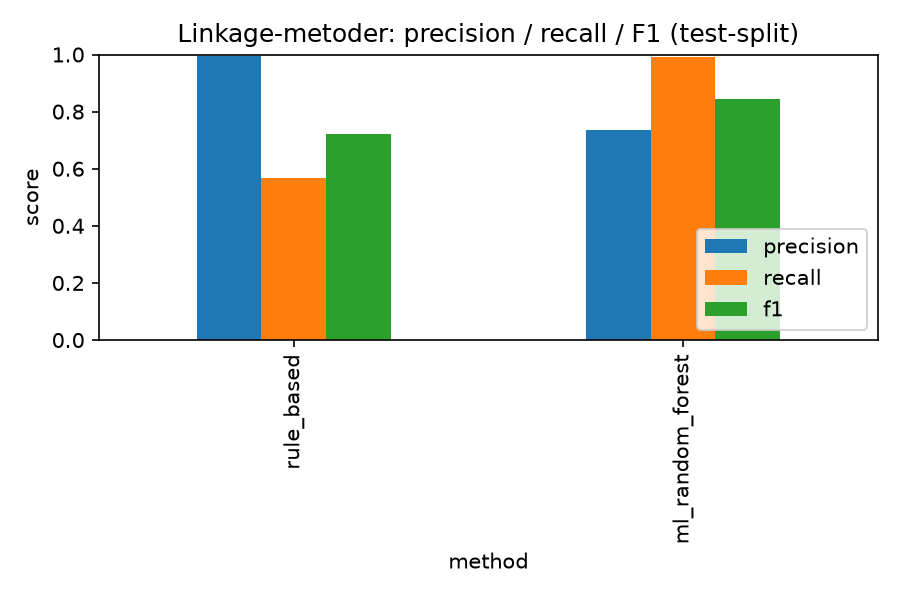
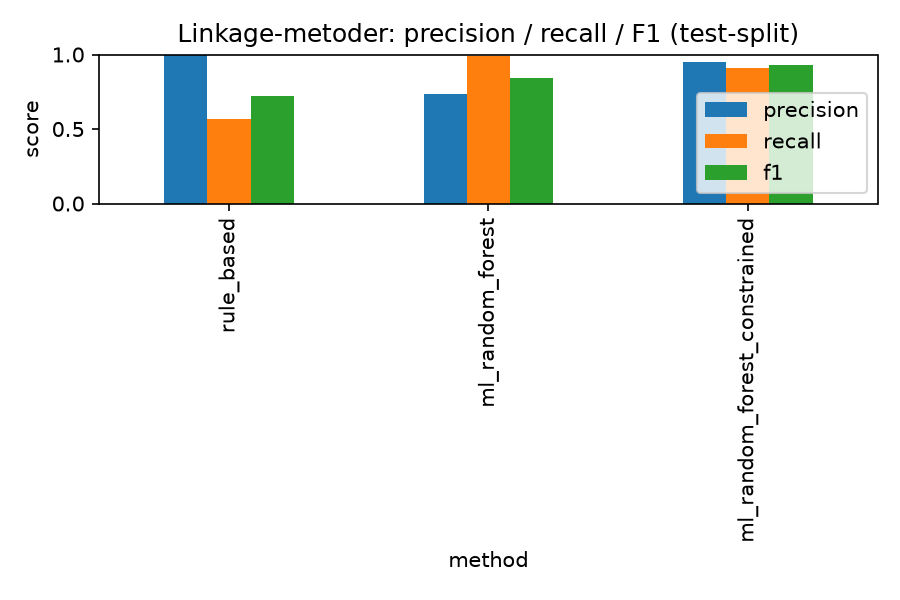
Shorten README intro, show all three methods in results figure
- Trimmed the intro to ~4 lines as requested.
- cmd_evaluate now also scores the ML model's predictions after
  one-to-one constrained assignment, restricted to the test split so
  all three methods share the same denominator (previously only
  rule-based and plain ML were compared; the constrained numbers
  existed only as a separate "all splits" figure in
  results/reports/constrained_assignment.md, which is not
  apples-to-apples with the test-split table). Regenerated
  metrics_comparison.csv and method_comparison.png accordingly - real
  precision 0.950 / recall 0.910 / F1 0.930 for ML+constrained, from
  existing constrained_assignment.py logic, not fabricated.
- Updated the README table and figure caption to reflect the three-way
  comparison, and docs/results.md to explain how this test-split number
  relates to the separate "all splits" figure in
  results/reports/constrained_assignment.md.
- Snakefile: `evaluate` now formally depends on constrained_ml.csv.

Claude-Session: https://claude.ai/code/session_01W6qVEZwCeja2cQtByg29Xo

diff --git a/src/linkage_lab/cli.py b/src/linkage_lab/cli.py
@@ -145,6 +145,30 @@ def cmd_evaluate(_args) -> None:
         "rule_based": evaluation.compute_metrics(rule_test["is_true_match"], rule_test["predicted_match"]),
         "ml_random_forest": evaluation.compute_metrics(ml_test["is_true_match"], ml_test["predicted_match"]),
     }
+
+    # Third comparison point: the ML method's predictions after one-to-one
+    # constrained assignment (see cmd_constrained_assignment), restricted
+    # to the same test split and evaluated against the same denominator
+    # (all test pairs) as the two methods above - not the "all splits"
+    # figure reported in constrained_assignment.md, so the three bars in
+    # the resulting figure are directly comparable.
+    if PATHS["constrained_ml"].exists():
+        constrained = pd.read_csv(PATHS["constrained_ml"])
+        kept_test_keys = set(
+            zip(
+                constrained.loc[constrained["split"] == "test", "census_record_id"],
+                constrained.loc[constrained["split"] == "test", "parish_record_id"],
+            )
+        )
+        ml_test = ml_test.copy()
+        ml_test["predicted_match_constrained"] = [
+            1 if key in kept_test_keys else 0
+            for key in zip(ml_test["census_record_id"], ml_test["parish_record_id"])
+        ]
+        metrics["ml_random_forest_constrained"] = evaluation.compute_metrics(
+            ml_test["is_true_match"], ml_test["predicted_match_constrained"]
+        )
+
     comparison = evaluation.build_comparison_table(metrics)
     comparison.to_csv(PATHS["metrics_comparison"])
     print(comparison)

diff --git a/README.md b/README.md
@@ -1,14 +1,12 @@
 # Historical Record Linkage Lab
 
-Et selvstændigt portfolio-projekt i historisk record linkage: at afgøre,
-hvornår to poster fra støjfyldte, transskriberede kilder beskriver samme
-person - uden et CPR-nummer at slå op på, og med almindelige navne, der
-kolliderer på tværs af forskellige, urelaterede individer. Projektet
-bygger hele pipelinen fra rå data til kvalitetssikrede koblinger, på
-både et kontrolleret syntetisk datasæt og et ægte historisk OCR-datasæt.
+Et portfolio-projekt i historisk record linkage: at afgøre, hvornår
+støjfyldte, transskriberede poster - uden CPR-nummer og med navne der
+kolliderer - beskriver samme person. Demonstreret på et syntetisk
+benchmark og et ægte historisk OCR-datasæt.
 
-**Dette er et selvstændigt lærings-/portfolio-projekt.** Det er **ikke**
-udviklet af eller for Rigsarkivet, og bruger **ingen** HisPeR-data.
+**Selvstændigt lærings-/portfolio-projekt** - ikke udviklet af eller for
+Rigsarkivet, og bruger ingen HisPeR-data.
 
 ## Pipeline
 
@@ -54,23 +52,21 @@ evalueringen bygger på et lille, manuelt vurderet benchmark (92 par). Se
 
 Syntetisk benchmark, testsplit:
 
-| Metode | F1 |
-|---|---:|
-| Rule-based | 0,721 |
-| Random Forest | 0,846 |
-| Random Forest + constrained assignment | 0,878 |
+| Metode | Precision | Recall | F1 |
+|---|---:|---:|---:|
+| Rule-based | 0,994 | 0,566 | 0,721 |
+| Random Forest | 0,737 | 0,991 | 0,846 |
+| Random Forest + constrained assignment | 0,950 | 0,910 | 0,930 |
 
-![Precision, recall og F1 for regelbaseret vs. ML-linkage på det syntetiske testsplit](results/figures/method_comparison.png)
+![Precision, recall og F1 for rule-based, ML og ML+constrained assignment på det syntetiske testsplit](results/figures/method_comparison.png)
 
-*Rule-based har næsten perfekt precision men lav recall; Random Forest vender billedet om. Constrained assignment (ikke vist her, se tabel) tager det bedste fra begge ved at efterbehandle ML-modellens output.*
+*Rule-based har næsten perfekt precision men lav recall; Random Forest vender billedet om. Constrained assignment tager ML-modellens egne forudsigelser og tvinger dem til at være one-to-one - det giver det bedste af begge: højere precision end ML alene, uden at recall falder markant.*
 
-One-to-one constrained assignment løfter precision fra **0,470 til
-0,836** blandt de accepterede par, og eliminerer samtlige 2.315
-tilfælde, hvor samme post var koblet til mere end ét match. Uafhængig
-klassifikation kan acceptere modstridende links; constraint tvinger hver
-post til højst ét match, valgt efter højeste model-score. Det kan kun
-fjerne par, ikke tilføje nye, så recall falder let mens precision stiger
-markant.
+Uafhængig klassifikation kan acceptere modstridende links (samme post
+koblet til flere andre). One-to-one constrained assignment vælger kun det
+højest-scorende link pr. post og eliminerede samtlige 2.315 tilfælde af
+den slags konflikter i denne kørsel - det er derfor F1 stiger fra 0,846
+til 0,930.
 
 NYC-directory-metoderne følger samme mønster (rule-based F1 0,833 vs. ML
 0,857), men benchmarket består af kun **37 testpar** og skal derfor ikke

diff --git a/docs/results.md b/docs/results.md
@@ -11,6 +11,13 @@ Se README for et kort resumé. Alle tal her er genereret af
 |---|---:|---:|---:|---:|---:|---:|---:|
 | Regelbaseret | 0,994 | 0,566 | 0,721 | 322 | 2 | 247 | 11.233 |
 | ML (Random Forest) | 0,737 | 0,991 | 0,846 | 564 | 201 | 5 | 11.034 |
+| ML + one-to-one constrained assignment | 0,950 | 0,910 | 0,930 | 518 | 27 | 51 | 11.208 |
+
+Den tredje række er ML-modellens accepterede par efter one-to-one
+constrained assignment, **restringeret til testsplittet** og evalueret
+mod samme nævner (alle 11.804 testpar) som de to andre rækker - så alle
+tre rækker er direkte sammenlignelige. Se afsnittet "Constrained
+assignment" nedenfor for en anden, bredere måling (alle splits samlet).
 
 **NYC directories (test-split af det manuelle benchmark, n = 37 par):**
 
@@ -32,14 +39,20 @@ viser precision/recall ved klassifikationstærskler 0,3-0,8 på ML-modellen.
 
 ## Constrained assignment
 
-**Syntetisk datasæt** (ML-metoden, alle splits):
+**Syntetisk datasæt, alle splits samlet** (ML-metoden, kun blandt de
+poster den selv har accepteret som match - et andet, bredere udsnit end
+testsplit-tallene i evalueringstabellen ovenfor):
 
 | | Precision | Recall | F1 | Accepterede par |
 |---|---:|---:|---:|---:|
 | Før constraint | 0,470 | 0,996 | 0,639 | 4.113 |
 | Efter constraint | 0,836 | 0,924 | 0,878 | 2.145 |
 
-Konflikter (records med >1 accepteret link) går fra 2.315 til 0.
+Konflikter (records med >1 accepteret link) går fra 2.315 til 0. Denne
+måling og testsplit-tallet ovenfor (0,930 F1) er begge korrekte - de
+svarer bare til to forskellige, dokumenterede udsnit af dataene (alle
+splits' accepterede par vs. hele testsplittet med samme nævner som de
+andre metoder).
 
 **NYC directories** (ML-metoden, hele korpus af 41.393 kandidatpar):
 1.532 accepterede par, 608 records med konflikt før constraint, 775 par
